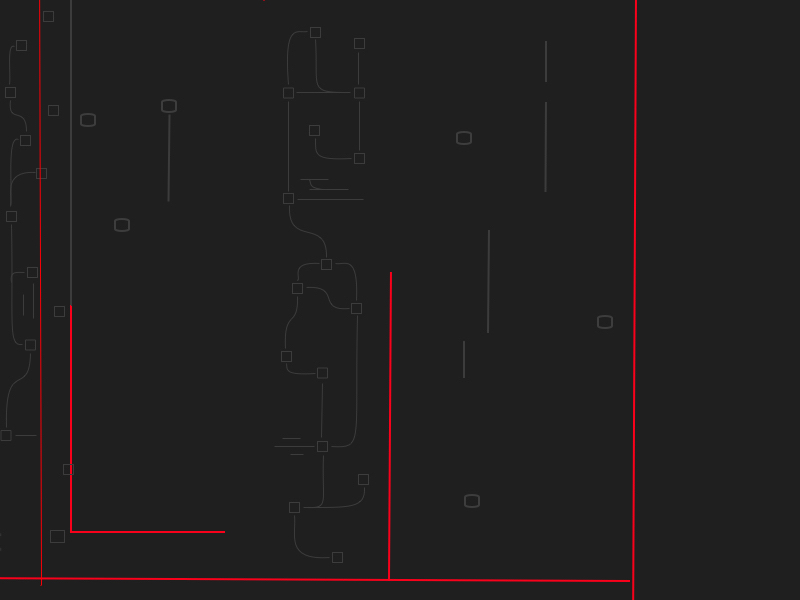
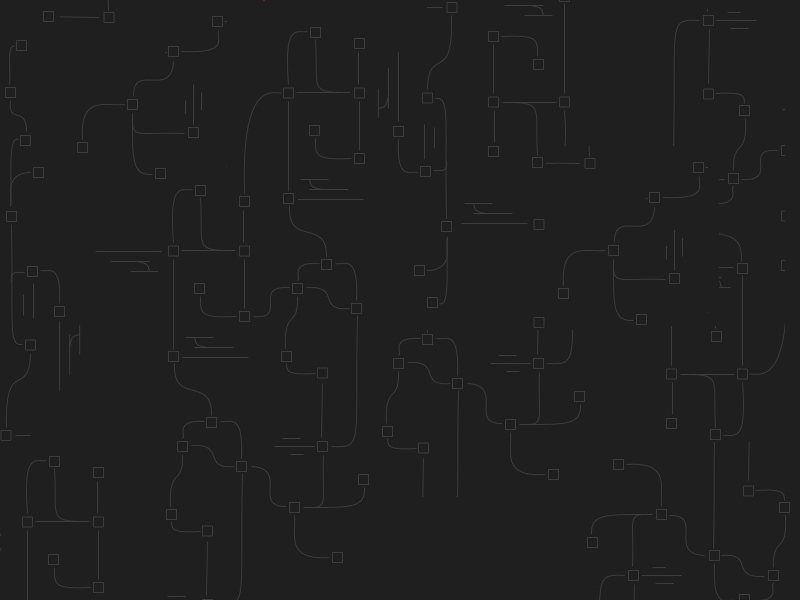
Changed background image to be more aeshetic and to fit better for users with larger screens or with phones.

diff --git a/css/style.css b/css/style.css
@@ -3,8 +3,9 @@
 body
 {
 	background-image:url(../images/betterBackground1.jpeg);
-	  background-size:     cover;                      /* This and the next line are added code to make the image not repeat */
-    background-repeat:   no-repeat;
+	 /* background-size:     cover; */                     /* This and the next line are added code to make the image not repeat */
+    /*background-repeat:   no-repeat;*/
+    background-size: auto;
 	/*background-color: black;*/ /*I want this to be a cool image*/ 
 	color: #555;
 	font-family:Arial, Helvetica, sans-serif;
